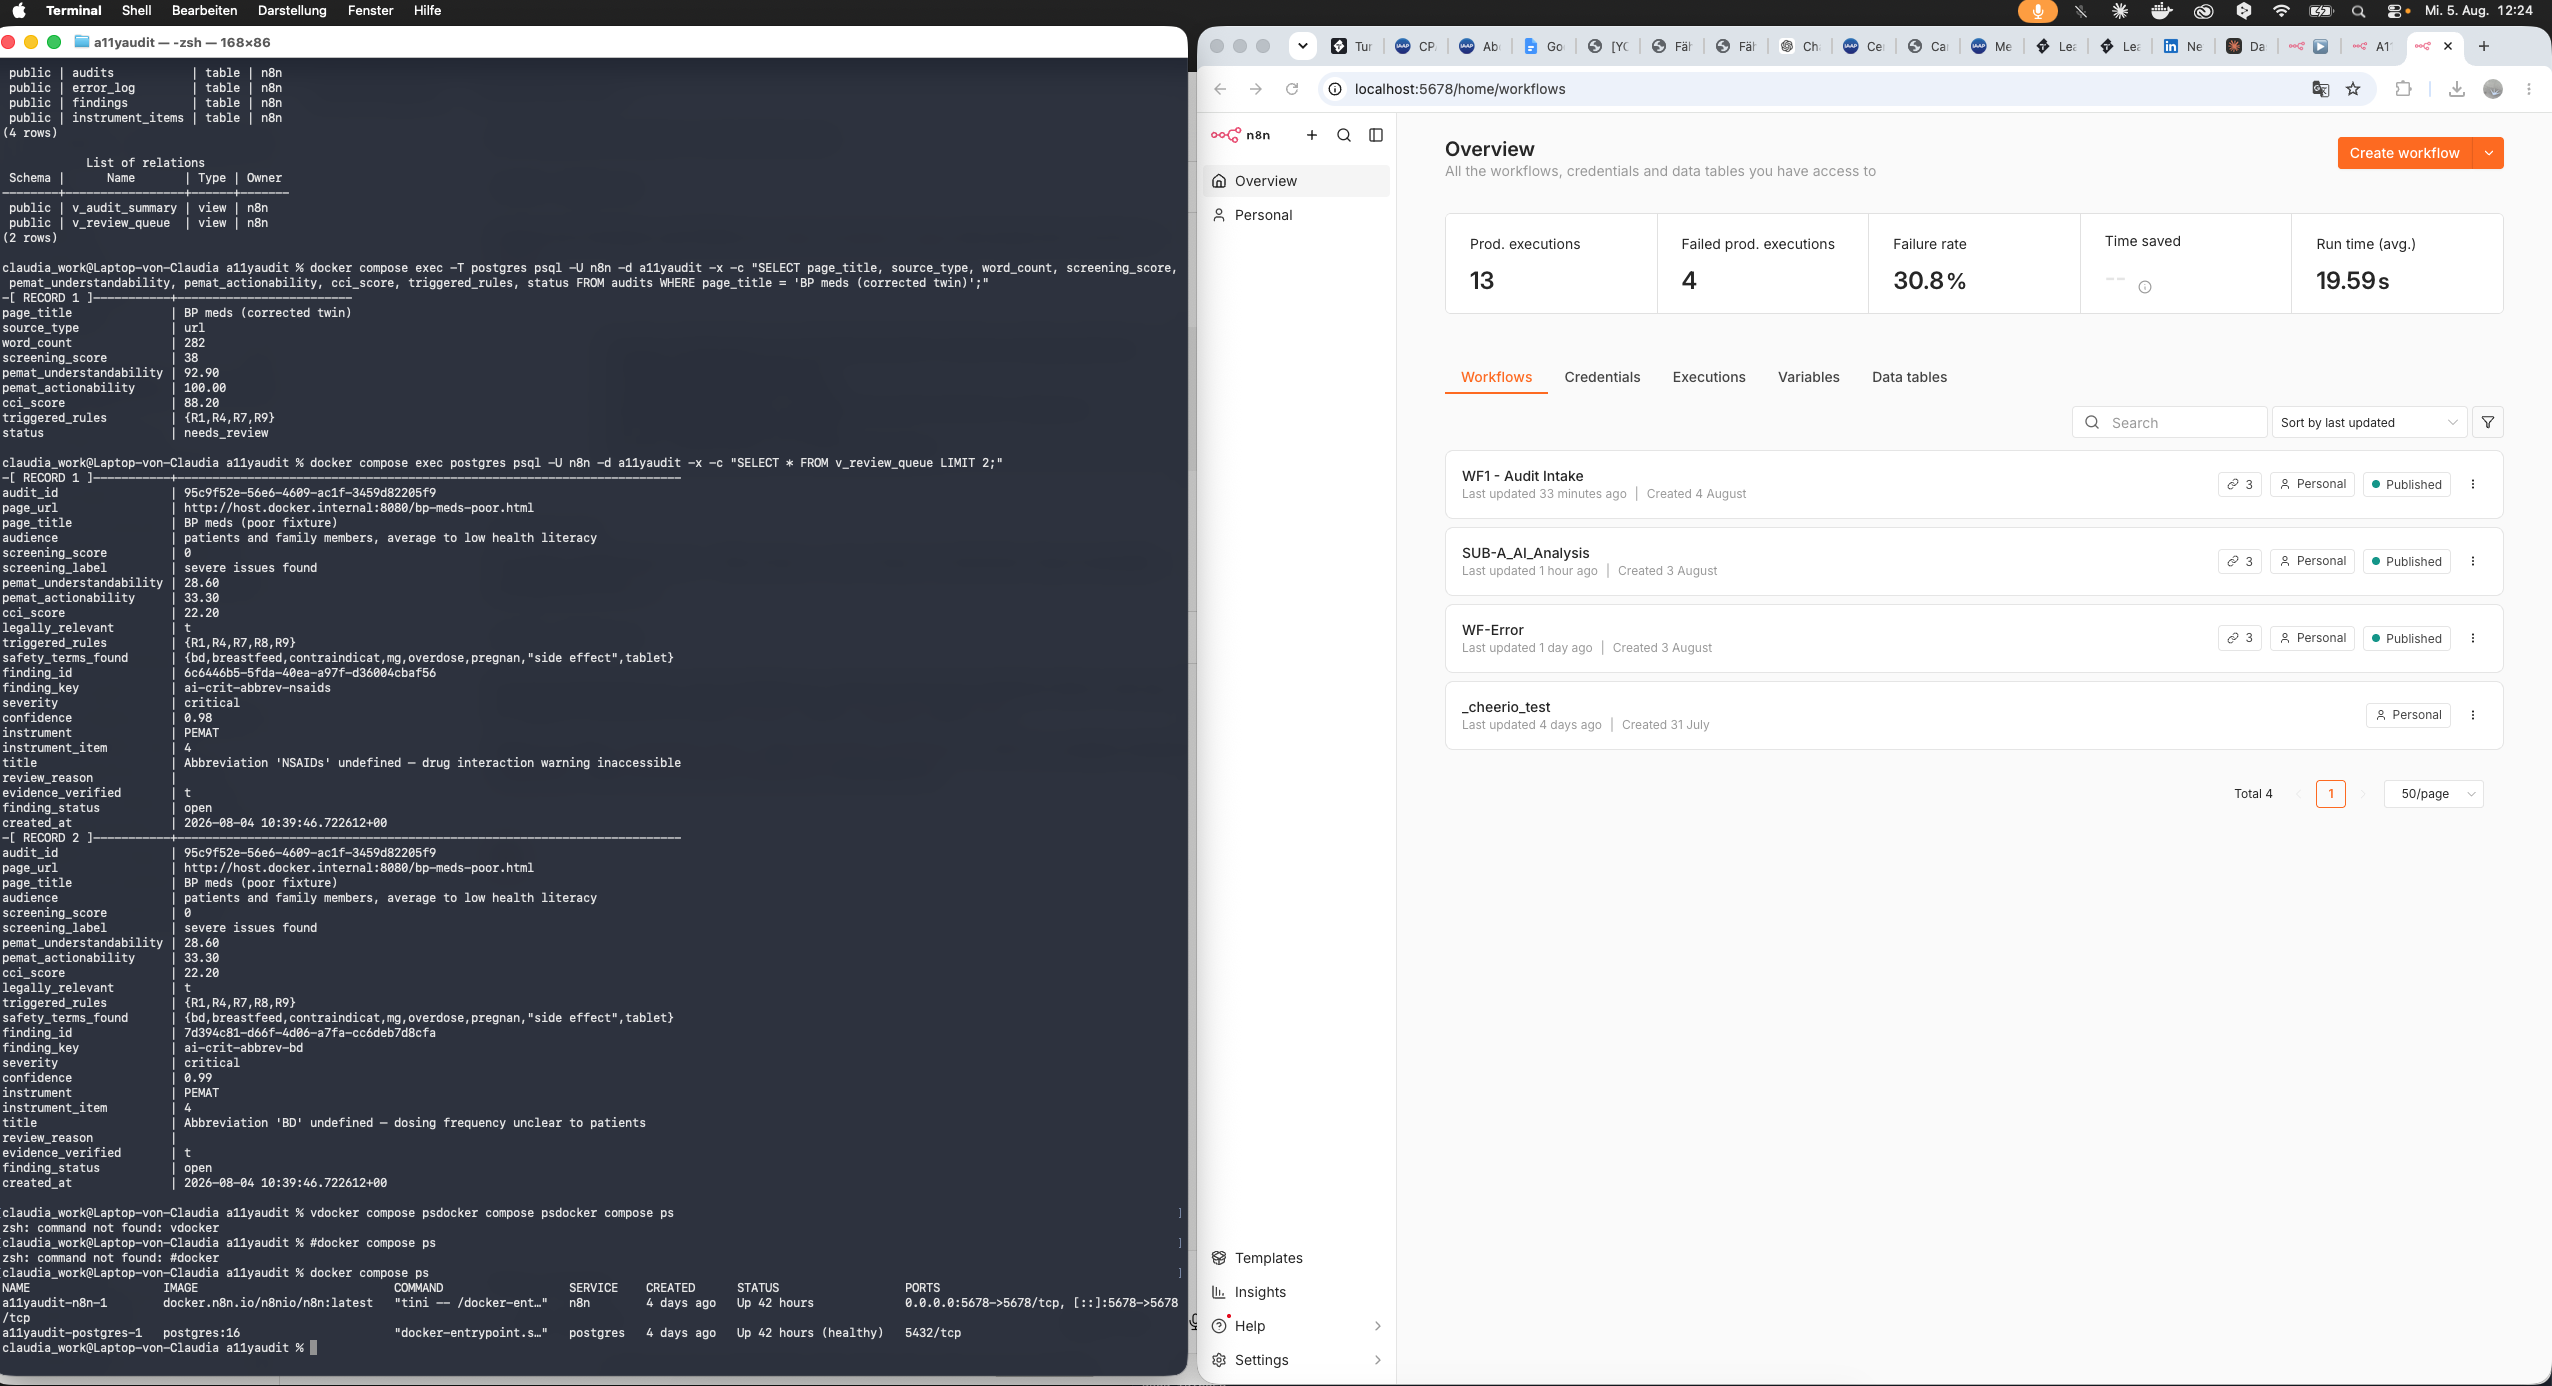
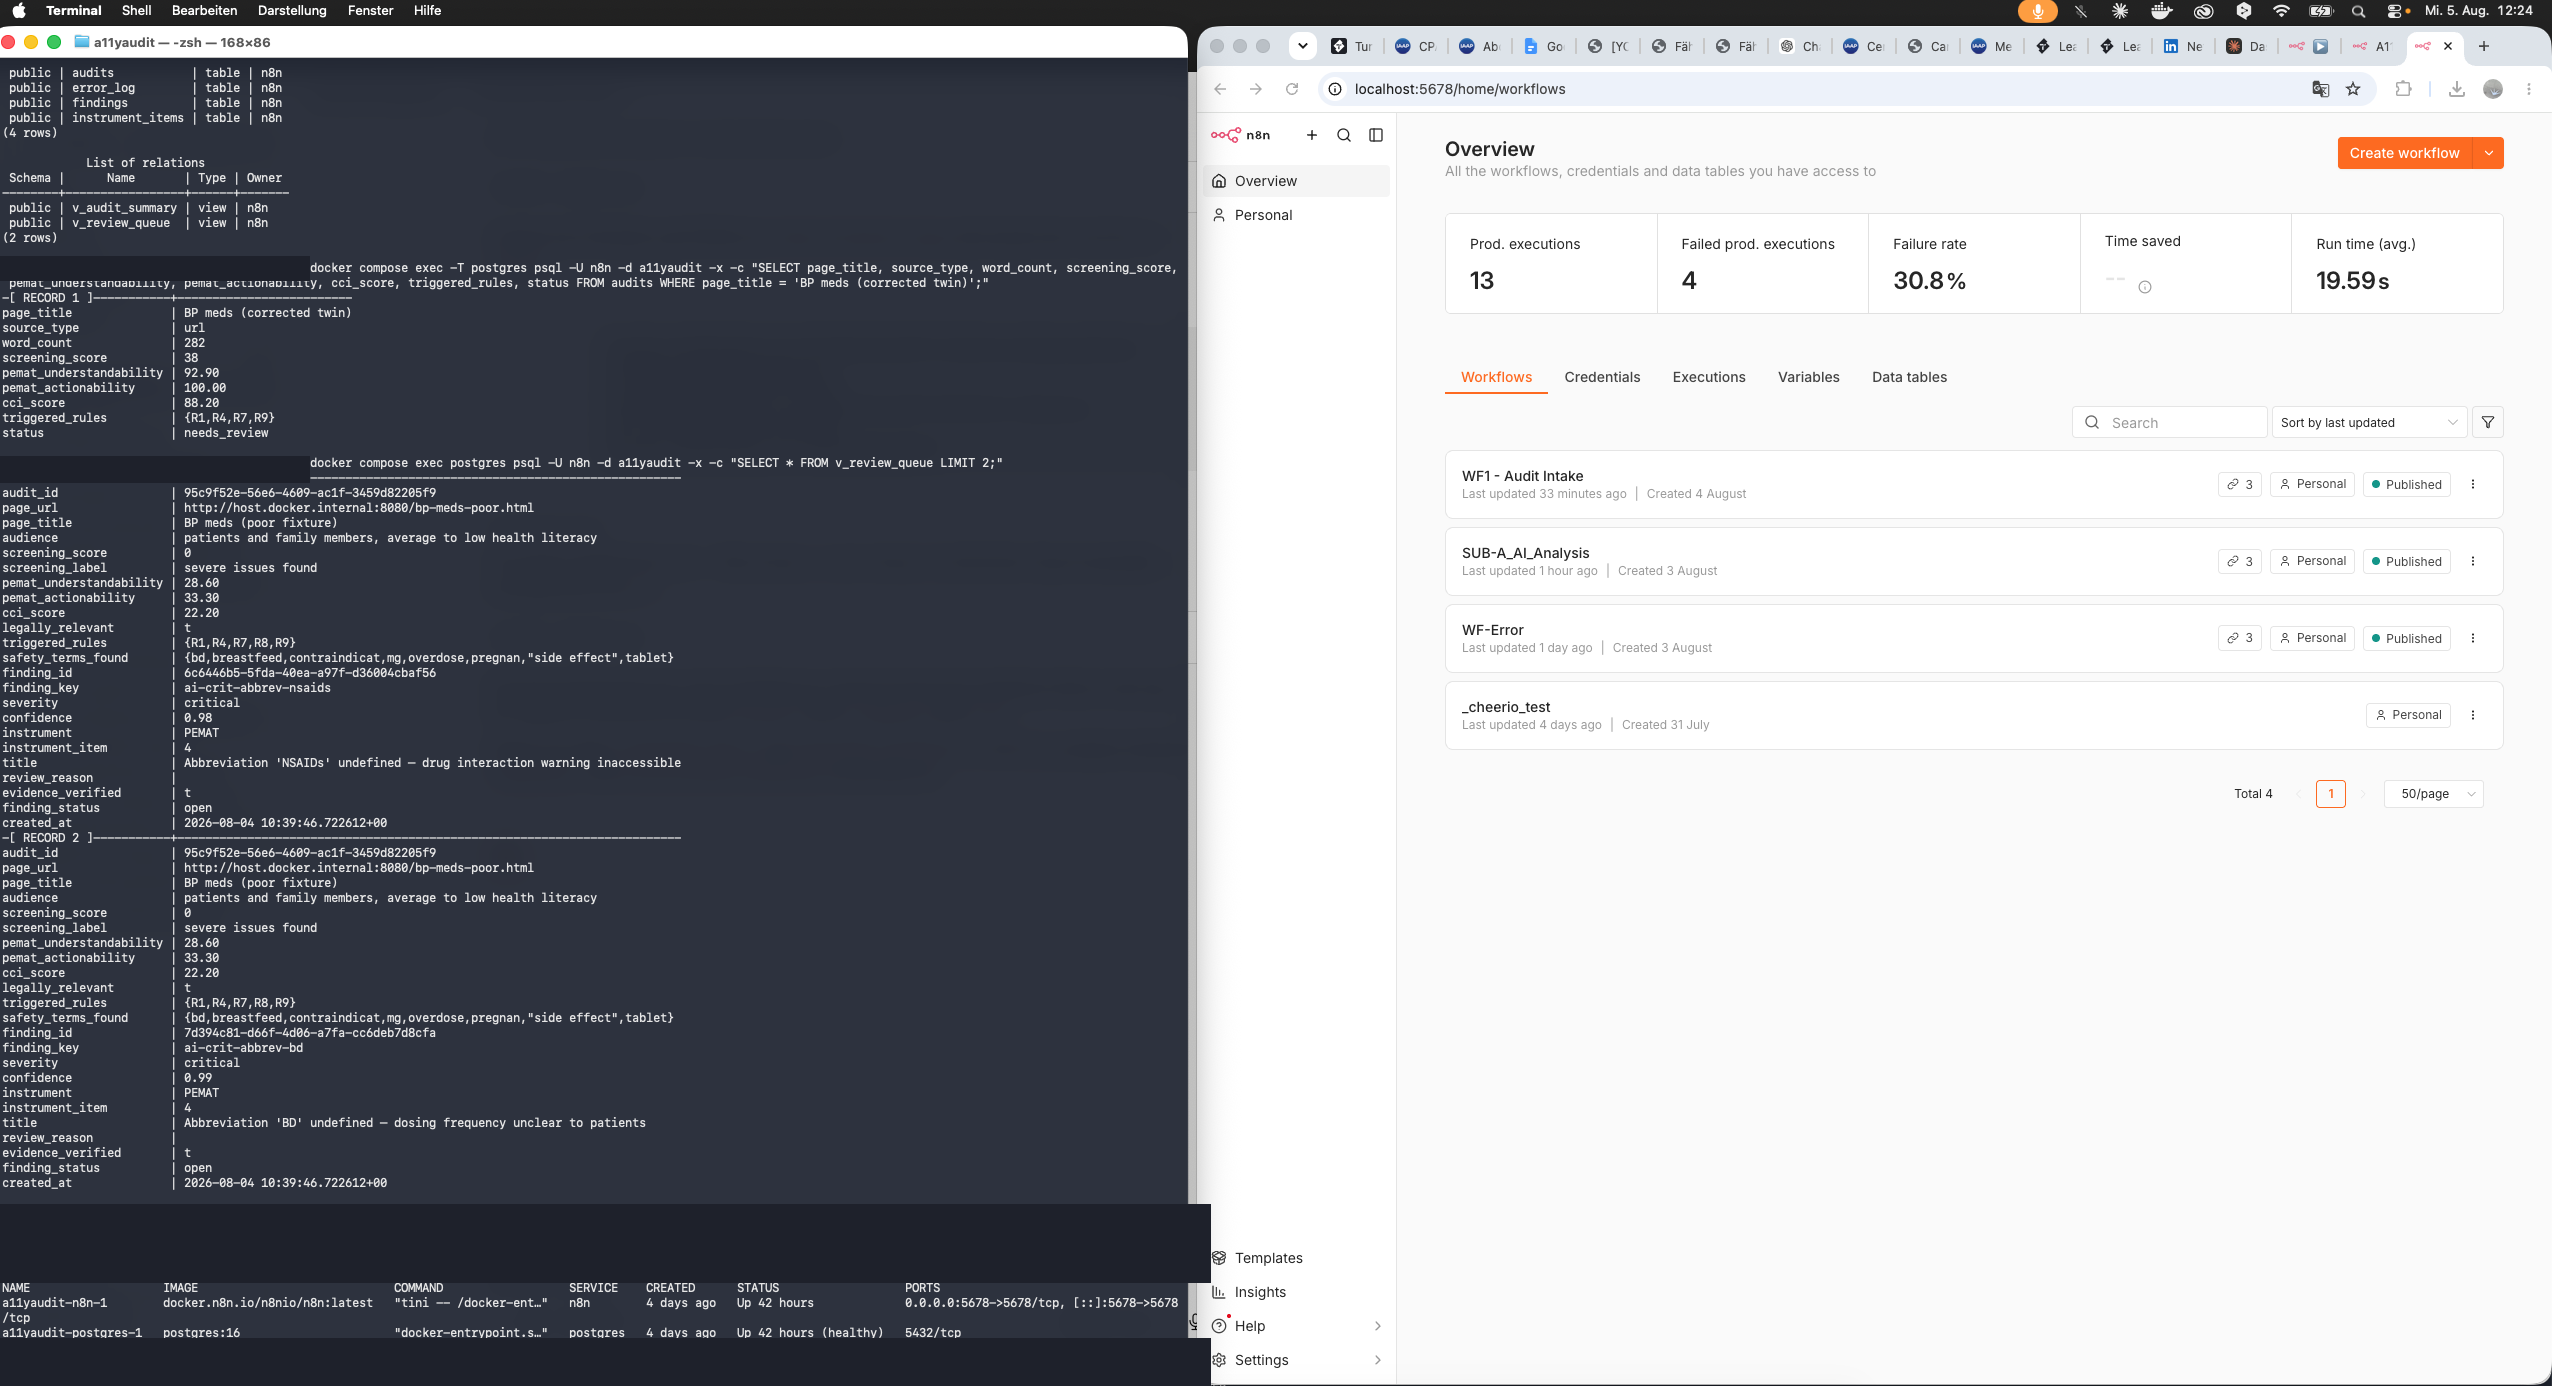
Redact local username/hostname from 8 screenshots at pixel level (D-49)
Eight screenshots (ss01, ss10, ss11, ss13, ss14, ss15, ss16, ss17) showed
the local terminal prompt "[local username/hostname, redacted]" or, for ss13,
the same username in a VS Code path breadcrumb. Flagged in the 10 August
credential sweep as manual work, since most of these images have the
prompt recurring multiple times interleaved with content worth keeping
(SQL results, docker ps output) — a crop would have discarded that
content along with the username.

Redacted with Pillow (installed via `pip3 install --user`, no admin
rights needed): filled rectangles matching the surrounding background
colour, boundaries located programmatically by scanning for background-
coloured pixel columns across the full text-row height rather than
estimated by eye. Every redaction verified by re-opening the saved file
and inspecting the exact region at 2-3x zoom before moving on.

All 8 files confirmed still valid PNGs at original pixel dimensions
(no crop, no corruption) after editing. ss08_intake_form.png intentionally
left untouched (rated LOW in the original sweep — a locally-resolvable
UUID, not a personal identifier).

Full method and rationale in decision_log.md D-49.

diff --git a/decision_log.md b/decision_log.md
@@ -1,13 +1,13 @@
 # A11yAudit — Design Decision Log
 
-**Version 3.5 · 10 August 2026**
+**Version 3.6 · 10 August 2026**
 Purpose: record *why* the system is built the way it is, including alternatives rejected and claims corrected. This document is the primary artefact for technical review and for the STL presentation — it evidences reasoning, not just output.
 
 Format per entry: **Decision · Context · Alternatives considered · Rationale · Consequences.**
 
-**Changelog:** v2.1 D-01…D-15 (design) · v2.2 D-16…D-19 (Day 0) · v2.3 D-20…D-23 (Days 1–2) · v2.4 D-24…D-33 (Days 3–5) · v2.5 D-12 gap recorded, D-34 (documentation review) · v2.6 D-35…D-39 (Day 6 tests and second review pass) · v2.7 D-40 (GitHub packaging) · v2.8 D-41 (Day 7: presentation format, and a headline claim corrected) · v2.9 D-42 (slide deck, reversing D-41) · v3.0 D-43 (an unsupported claim about BD/bedtime retracted and replaced) · v3.1 D-44 (packaging by web upload; the staging folder had gone stale) · v3.2 D-45 (a fourth false claim, and a check built to catch the next one) · v3.3 D-46 (pre-commit review, 10 August: D-20's cut list corrected — five of six items were built after all) · v3.4 D-47 (pre-commit review, 10 August: `v_review_queue` INNER JOIN could hide escalated audits with no qualifying finding row — fixed to LEFT JOIN) · v3.5 D-48 (post-commit setup review, 10 August: `docker-compose.yml` project name pinned after a repo folder rename would have silently changed container names).
+**Changelog:** v2.1 D-01…D-15 (design) · v2.2 D-16…D-19 (Day 0) · v2.3 D-20…D-23 (Days 1–2) · v2.4 D-24…D-33 (Days 3–5) · v2.5 D-12 gap recorded, D-34 (documentation review) · v2.6 D-35…D-39 (Day 6 tests and second review pass) · v2.7 D-40 (GitHub packaging) · v2.8 D-41 (Day 7: presentation format, and a headline claim corrected) · v2.9 D-42 (slide deck, reversing D-41) · v3.0 D-43 (an unsupported claim about BD/bedtime retracted and replaced) · v3.1 D-44 (packaging by web upload; the staging folder had gone stale) · v3.2 D-45 (a fourth false claim, and a check built to catch the next one) · v3.3 D-46 (pre-commit review, 10 August: D-20's cut list corrected — five of six items were built after all) · v3.4 D-47 (pre-commit review, 10 August: `v_review_queue` INNER JOIN could hide escalated audits with no qualifying finding row — fixed to LEFT JOIN) · v3.5 D-48 (post-commit setup review, 10 August: `docker-compose.yml` project name pinned after a repo folder rename would have silently changed container names) · v3.6 D-49 (10 August: eight screenshots redacted at pixel level to remove the local username/hostname without losing surrounding content).
 
-**Completeness:** D-01 to D-48, no missing numbers, no duplicates. D-12 is an unused number, recorded as such below.
+**Completeness:** D-01 to D-49, no missing numbers, no duplicates. D-12 is an unused number, recorded as such below.
 
 ---
 
@@ -657,6 +657,22 @@ It is deliberately crude and over-inclusive: statements about this system are fa
 **Rationale:** this is the same shape of problem as D-46/D-47 — a value that used to be implicitly correct (because it depended on an assumption, here "the folder is called `a11yaudit`") stops being correct the moment that assumption changes, with nothing forcing a check. Pinning the name removes the assumption entirely rather than documenting around it.
 
 **Consequences:** `docker compose ps` will show `a11yaudit-postgres-1` / `a11yaudit-n8n-1` regardless of the containing folder's name, matching `meta/_DAY1_COMMANDS.md` and `PROJECT_STATUS.md` as originally documented. No other file references `COMPOSE_PROJECT_NAME` or depends on the old implicit behaviour — checked repo-wide. Not yet run against a live container (none is currently up); takes effect on the next `docker compose up`.
+
+---
+
+## D-49 — Eight screenshots redacted (visible local username/machine name), pixel-level not crop-level
+
+**Context:** the 10 August credential sweep (documented earlier this session, not as its own D-number) flagged eight screenshots showing the local terminal prompt `[local username/hostname, redacted]` and one VS Code breadcrumb showing the same username — `screenshots/ss01_containers_and_n8n.png`, `ss10_audit_row.png`, `ss11_review_queue.png`, `ss13_generated_report.png`, `ss14_scores_all_audits.png`, `ss15_error_log_full.png`, `ss16_idempotency.png`, `ss17_e11_fallback.png`. Flagged as manual work at the time because image editing was assumed out of reach for the agent.
+
+**What was actually needed, and why cropping wasn't enough:** in most of these images the prompt recurs multiple times interleaved with content worth keeping (SQL query results, `docker ps` output) — `ss01` alone has the string in four separate places. A top/bottom crop would have discarded that content along with the username. Selective redaction (covering only the username span, on each line it appears) was the only approach that kept everything else intact.
+
+**Method:** for each image, the pristine version was pulled back from this repo's own first commit (`git show 6a2689a:screenshots/<file> > /tmp/...`) rather than edited in place first — the first attempt on `ss01` overwrote the working copy before measuring precisely enough, losing the ability to re-measure from a clean source. Redaction itself used Pillow (`pip3 install --user Pillow`, no admin rights needed) to draw filled rectangles matching the surrounding background colour, with boundaries found programmatically (scanning for pixel columns that are background-coloured across the full text-row height, rather than reading coordinates off the image by eye) rather than guessed. Every redaction was verified by re-opening the saved file and visually inspecting the exact region before moving to the next image — one round (`ss01`) needed three corrective passes (a doubled rectangle from copy-paste confusion in an unrelated review step earlier in the session was not the cause here, but the same lesson applied: verify the written file, not the command that wrote it).
+
+**Alternatives considered:** blurring instead of solid-fill redaction — rejected, blur can be reversible with the right technique and gives no stronger guarantee than a solid rectangle, which is simpler to verify. Cropping the whole terminal pane out of `ss01` — rejected, would have discarded the SQL result content the screenshot exists to show.
+
+**Verified after the fact:** all eight files still open as valid PNGs at their original pixel dimensions (no accidental crop or corruption); each redacted region re-inspected at 2-3x zoom after saving. File sizes dropped (PNG compresses solid-colour rectangles well) — expected, not a sign of data loss. Files were read-only (`-r--------`) as committed; `chmod u+w` was needed before overwriting, then left writable.
+
+**Consequences:** none of the eight images' informational content (query results, table output, report text, container status) was lost — only the recurring local username/hostname string. Not covered by this pass: `ss08_intake_form.png` (rated LOW in the original sweep — a form URL with a UUID, only locally resolvable, not a personal identifier), left as-is per that earlier assessment.
 
 ---
 
